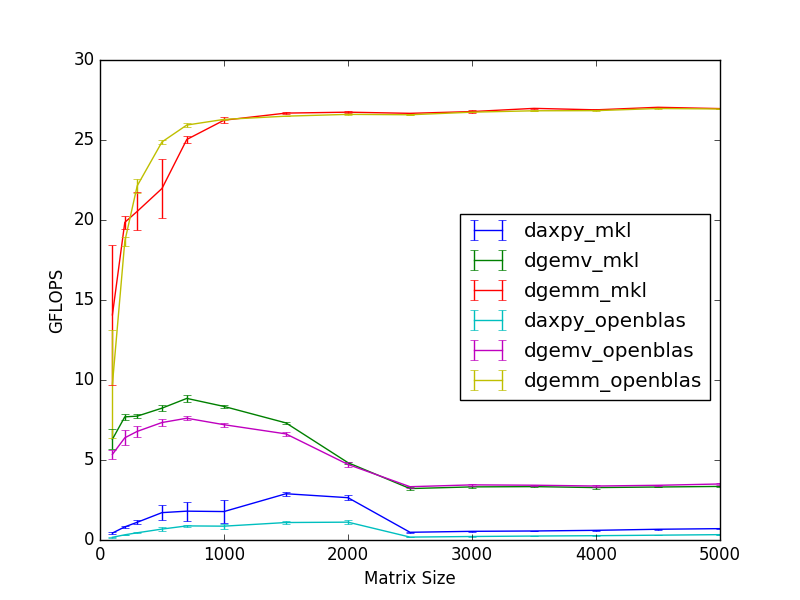
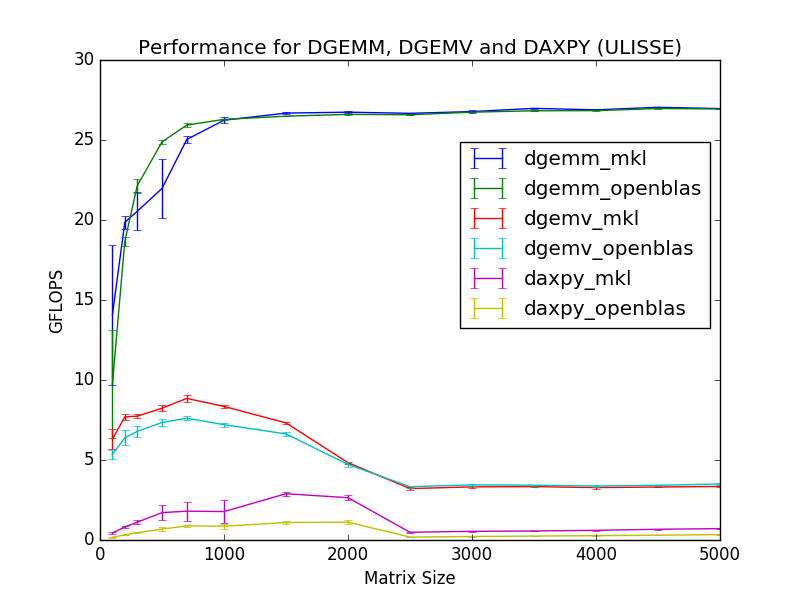
plot modif

diff --git a/D1-exercise/provided_code/BLAS_Scaling/plot.py b/D1-exercise/provided_code/BLAS_Scaling/plot.py
@@ -136,14 +136,15 @@ while i < len(sec1):
 
 plt.figure()
 # plt.plot(s, t)
-plt.errorbar(s, t1, yerr=err1, label='daxpy_mkl')
-plt.errorbar(s, t2, yerr=err2, label='dgemv_mkl')
 plt.errorbar(s, t3, yerr=err3, label='dgemm_mkl')
-plt.errorbar(s, mkl_t1, yerr=mkl_err1, label='daxpy_openblas')
-plt.errorbar(s, mkl_t2, yerr=mkl_err2, label='dgemv_openblas')
 plt.errorbar(s, mkl_t3, yerr=mkl_err3, label='dgemm_openblas')
+plt.errorbar(s, t2, yerr=err2, label='dgemv_mkl')
+plt.errorbar(s, mkl_t2, yerr=mkl_err2, label='dgemv_openblas')
+plt.errorbar(s, t1, yerr=err1, label='daxpy_mkl')
+plt.errorbar(s, mkl_t1, yerr=mkl_err1, label='daxpy_openblas')
+plt.title('Performance for DGEMM, DGEMV and DAXPY (ULISSE)')
 plt.xlabel('Matrix Size')
 plt.ylabel('GFLOPS')
-plt.legend(bbox_to_anchor = (1., .7))
+plt.legend(bbox_to_anchor = (1., .85))
 # plt.show()
 plt.savefig('scaling_library.png')
